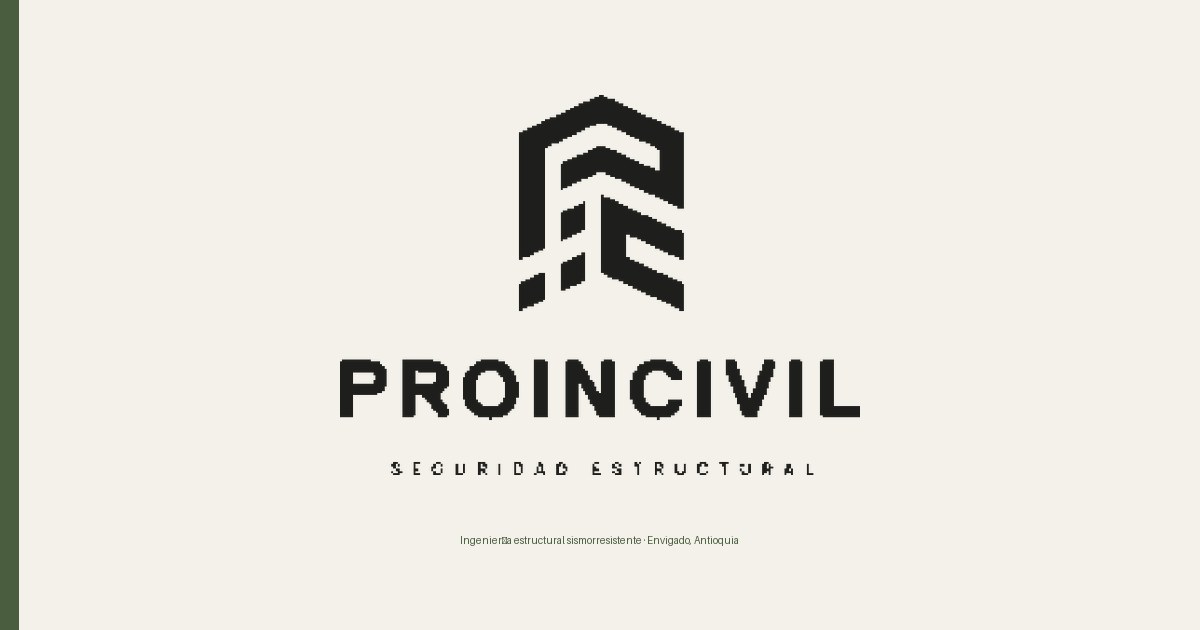
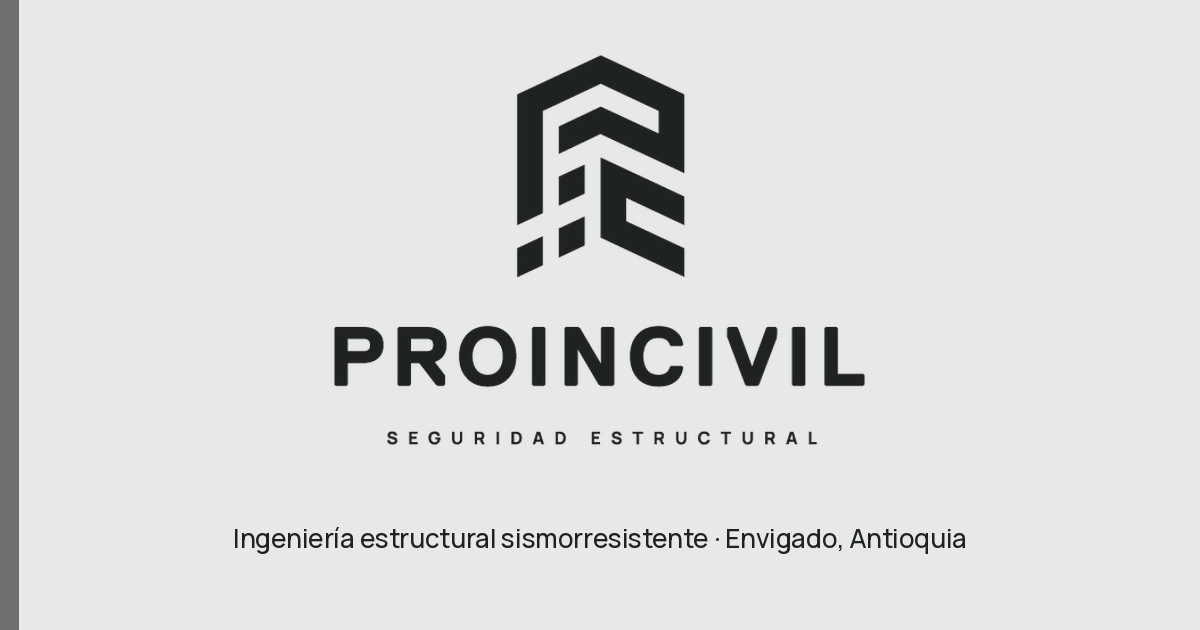
Aplica la nueva identidad de marca (Estudio dositres)
- Paleta de marca en los tokens (negro verdoso, blanco grisáceo, verde grisáceo, gris oscuro verdoso); solo cambian valores, no reglas.
- Manrope (principal) y Garet Book (secundaria) autoalojadas en fonts/, con respaldos de métricas ajustadas; se retira Google Fonts.
- Logo nuevo (variante vertical), favicons, imagen OG, theme-color y manifest.
- Botones de conversión en verde WhatsApp #25D366 (texto #1E2221, 8,5:1).
- Estado del proyecto actualizado.

Claude-Session: https://claude.ai/code/session_01Ci6jc6ucvabxgtges6nank

diff --git a/_includes/critical-css/base.css b/_includes/critical-css/base.css
@@ -2,36 +2,38 @@
    Dirección: _plans/direccion-diseno-plano-vivo-2026-10-21.md */
 @layer reset, primitivas, componentes, utilidades;
 
-/* Respaldo con métricas ajustadas: evita el salto de diseño (CLS) cuando llega la fuente web. */
-@font-face { font-family: "Inter respaldo"; src: local("Arial"); size-adjust: 107.4%; ascent-override: 90.2%; descent-override: 22.48%; line-gap-override: 0%; }
-@font-face { font-family: "JetBrains Mono respaldo"; src: local("Courier New"); size-adjust: 100%; ascent-override: 102%; descent-override: 30%; line-gap-override: 0%; }
+/* Identidad 2026-10: fuentes de marca autoalojadas (Manrope principal, Garet Book secundaria) y respaldos con métricas ajustadas para evitar el salto de diseño (CLS). */
+@font-face { font-family: "Manrope"; src: url("{{ '/fonts/manrope-var.woff2' | relative_url }}") format("woff2"); font-weight: 200 800; font-style: normal; font-display: swap; }
+@font-face { font-family: "Garet"; src: url("{{ '/fonts/garet-book.woff2' | relative_url }}") format("woff2"); font-weight: 400 800; font-style: normal; font-display: swap; }
+@font-face { font-family: "Manrope respaldo"; src: local("Arial"); size-adjust: 105.3%; ascent-override: 101.22%; descent-override: 28.49%; line-gap-override: 0%; }
+@font-face { font-family: "Garet respaldo"; src: local("Arial"); size-adjust: 119.6%; ascent-override: 89.49%; descent-override: 31.78%; line-gap-override: 0%; }
 
 @layer reset {
   :root {
-    --azul: #14213d;
-    --azul-2: #1b2a4a;
-    --marfil: #f6f3ec;
-    --papel: #fff;
-    --tinta: #14213d;
-    --tinta-suave: #47506a;
-    --trazo: #9db4d9;
-    --ambar: #d98e2a;
-    --linea: rgb(20 33 61 / 0.16);
-    --linea-fuerte: rgb(20 33 61 / 0.42);
-    --linea-clara: rgb(246 243 236 / 0.18);
+    --azul: #1E2221;      /* negro verdoso (marca) */
+    --azul-2: #2A2F2D;    /* negro verdoso aclarado, para superficies oscuras */
+    --marfil: #E8E8E8;    /* blanco grisáceo (marca) */
+    --papel: #F4F5F4;     /* tinte claro del blanco grisáceo, para tarjetas */
+    --tinta: #1E2221;
+    --tinta-suave: #565955;   /* 5,8:1 sobre blanco grisáceo */
+    --trazo: #929C93;     /* verde grisáceo (marca) */
+    --ambar: #25D366;     /* acento de conversión: verde WhatsApp (fuera de la paleta de marca, elegido por el usuario 2026-10-21); texto #1E2221 encima (8,5:1) */
+    --linea: rgb(30 34 33 / 0.16);
+    --linea-fuerte: rgb(30 34 33 / 0.42);
+    --linea-clara: rgb(232 232 232 / 0.18);
     --cuadricula-oscura:
-      linear-gradient(rgb(157 180 217 / 0.07) 1px, transparent 1px),
-      linear-gradient(90deg, rgb(157 180 217 / 0.07) 1px, transparent 1px),
-      linear-gradient(rgb(157 180 217 / 0.14) 1px, transparent 1px),
-      linear-gradient(90deg, rgb(157 180 217 / 0.14) 1px, transparent 1px);
+      linear-gradient(rgb(146 156 147 / 0.07) 1px, transparent 1px),
+      linear-gradient(90deg, rgb(146 156 147 / 0.07) 1px, transparent 1px),
+      linear-gradient(rgb(146 156 147 / 0.14) 1px, transparent 1px),
+      linear-gradient(90deg, rgb(146 156 147 / 0.14) 1px, transparent 1px);
     --cuadricula-clara:
-      linear-gradient(rgb(20 33 61 / 0.035) 1px, transparent 1px),
-      linear-gradient(90deg, rgb(20 33 61 / 0.035) 1px, transparent 1px),
-      linear-gradient(rgb(20 33 61 / 0.07) 1px, transparent 1px),
-      linear-gradient(90deg, rgb(20 33 61 / 0.07) 1px, transparent 1px);
+      linear-gradient(rgb(30 34 33 / 0.035) 1px, transparent 1px),
+      linear-gradient(90deg, rgb(30 34 33 / 0.035) 1px, transparent 1px),
+      linear-gradient(rgb(30 34 33 / 0.07) 1px, transparent 1px),
+      linear-gradient(90deg, rgb(30 34 33 / 0.07) 1px, transparent 1px);
     --cuadricula-medida: 8px 8px, 8px 8px, 40px 40px, 40px 40px;
-    --fuente: "Inter", "Inter respaldo", system-ui, -apple-system, "Segoe UI", sans-serif;
-    --fuente-mono: "JetBrains Mono", "JetBrains Mono respaldo", ui-monospace, "SFMono-Regular", Consolas, monospace;
+    --fuente: "Manrope", "Manrope respaldo", system-ui, -apple-system, "Segoe UI", sans-serif;
+    --fuente-mono: "Garet", "Garet respaldo", "Manrope", system-ui, -apple-system, "Segoe UI", sans-serif;
     --margen: clamp(1rem, 4vw, 2rem);
     --barra-alto: 4rem;
     --menu-alto: 2.875rem;

diff --git a/_includes/css/escenas.css b/_includes/css/escenas.css
@@ -19,15 +19,15 @@
   }
   .panel__foto { position: absolute; inset: 0; }
   .panel__foto img { inline-size: 100%; block-size: 100%; object-fit: cover; }
-  .panel__foto::after { content: ""; position: absolute; inset: 0; background: linear-gradient(180deg, rgb(20 33 61 / 0.25) 0%, rgb(20 33 61 / 0.55) 45%, rgb(20 33 61 / 0.94) 100%); }
+  .panel__foto::after { content: ""; position: absolute; inset: 0; background: linear-gradient(180deg, rgb(30 34 33 / 0.25) 0%, rgb(30 34 33 / 0.55) 45%, rgb(30 34 33 / 0.94) 100%); }
   .panel__cuerpo { position: relative; padding-block: clamp(3rem, 8vw, 6rem); max-inline-size: 75rem; }
   .panel__numero { font-family: var(--fuente-mono); font-size: clamp(1rem, 1.5vw, 1.25rem); color: var(--trazo); }
   .panel__titulo { max-inline-size: 16ch; font-size: clamp(2.25rem, 5.5vw, 5rem); line-height: 1; letter-spacing: -0.035em; }
-  .panel__texto { max-inline-size: 38rem; font-size: clamp(1.0625rem, 0.6vw + 1rem, 1.25rem); color: rgb(246 243 236 / 0.85); }
+  .panel__texto { max-inline-size: 38rem; font-size: clamp(1.0625rem, 0.6vw + 1rem, 1.25rem); color: rgb(232 232 232 / 0.85); }
   .panel__enlaces { display: flex; flex-wrap: wrap; gap: 0.75rem 2rem; padding: 0; list-style: none; }
   @media (min-width: 60em) {
     .panel { align-items: center; }
-    .panel__foto::after { background: linear-gradient(90deg, rgb(20 33 61 / 0.94) 0%, rgb(20 33 61 / 0.78) 38%, rgb(20 33 61 / 0.25) 75%, rgb(20 33 61 / 0.1) 100%); }
+    .panel__foto::after { background: linear-gradient(90deg, rgb(30 34 33 / 0.94) 0%, rgb(30 34 33 / 0.78) 38%, rgb(30 34 33 / 0.25) 75%, rgb(30 34 33 / 0.1) 100%); }
     .panel__cuerpo { padding-block: 4rem; }
     .panel__enlaces { flex-direction: column; align-items: flex-start; gap: 0.625rem; }
   }
@@ -54,15 +54,15 @@
   .zoom__escena { position: relative; display: grid; align-items: center; min-block-size: 100svh; overflow: hidden; isolation: isolate; }
   .zoom__foto { position: absolute; inset: 0; z-index: -1; }
   .zoom__foto img { inline-size: 100%; block-size: 100%; object-fit: cover; }
-  .zoom__foto::after { content: ""; position: absolute; inset: 0; background: radial-gradient(ellipse at 30% 60%, rgb(20 33 61 / 0.55), rgb(20 33 61 / 0.92)); }
+  .zoom__foto::after { content: ""; position: absolute; inset: 0; background: radial-gradient(ellipse at 30% 60%, rgb(30 34 33 / 0.55), rgb(30 34 33 / 0.92)); }
   .zoom__palabra {
     position: absolute; inset: 0; display: grid; place-items: center; z-index: 1; pointer-events: none;
     font-size: clamp(2.75rem, 17vw, 16rem); font-weight: 800; letter-spacing: -0.05em; line-height: 1;
-    color: transparent; -webkit-text-stroke: 1px rgb(157 180 217 / 0.35);
+    color: transparent; -webkit-text-stroke: 1px rgb(146 156 147 / 0.35);
   }
   .zoom__cta { position: relative; z-index: 2; padding-block: 6rem; }
   .zoom__titulo { max-inline-size: 20ch; font-size: clamp(2.25rem, 4.5vw, 4.25rem); line-height: 1.02; letter-spacing: -0.035em; }
-  .zoom__texto { max-inline-size: 34rem; font-size: 1.125rem; color: rgb(246 243 236 / 0.85); }
+  .zoom__texto { max-inline-size: 34rem; font-size: 1.125rem; color: rgb(232 232 232 / 0.85); }
   .zoom .boton { min-block-size: 4.25rem; padding: 1.25rem 2.25rem; font-size: 1.25rem; }
 
   .palabra { display: inline-block; overflow: hidden; padding-block-end: 0.12em; margin-block-end: -0.12em; vertical-align: bottom; }

diff --git a/_includes/head.html b/_includes/head.html
@@ -15,7 +15,7 @@
 <meta name="geo.region" content="CO-ANT">
 <meta name="geo.placename" content="{{ site.empresa.ciudad }}, {{ site.empresa.departamento }}">
 <meta name="geo.position" content="{{ site.empresa.geo_lat }};{{ site.empresa.geo_lng }}">
-<meta name="theme-color" content="#14160F">
+<meta name="theme-color" content="#1E2221">
 <link rel="canonical" href="{{ page.canonical | default: page.url | absolute_url }}">
 {%- if page.layout == "post" %}
 <meta property="article:published_time" content="{{ page.date | date_to_xmlschema }}">
@@ -41,11 +41,8 @@
 <link rel="manifest" href="{{ '/manifest.json' | relative_url }}">
 <link rel="alternate" type="application/rss+xml" title="Blog PROINCIVIL" href="{{ '/feed.xml' | absolute_url }}">
 <link rel="sitemap" type="application/xml" href="{{ '/sitemap.xml' | absolute_url }}">
-{%- comment %} Fuentes Plano vivo: Inter (titulares y cuerpo) + JetBrains Mono (ejes, cotas, rótulos y cifras). {% endcomment %}
-<link rel="preconnect" href="https://fonts.googleapis.com">
-<link rel="preconnect" href="https://fonts.gstatic.com" crossorigin>
-<link rel="stylesheet" href="https://fonts.googleapis.com/css2?family=Inter:wght@400;500;600;700;800&family=JetBrains+Mono:wght@500;600&display=swap" media="print" onload="this.media='all'">
-<noscript><link rel="stylesheet" href="https://fonts.googleapis.com/css2?family=Inter:wght@400;500;600;700;800&family=JetBrains+Mono:wght@500;600&display=swap"></noscript>
+{%- comment %} Fuentes de marca autoalojadas (@font-face en critical-css/base.css): Manrope (principal: titulares y cuerpo) + Garet Book (secundaria: rótulos, cotas y cifras). {% endcomment %}
+<link rel="preload" href="{{ '/fonts/manrope-var.woff2' | relative_url }}" as="font" type="font/woff2" crossorigin>
 {% include critical-css/critical.html %}
 {%- comment %} El hero no se precarga aquí: picture.html ya lo emite con fetchpriority="high". {% endcomment -%}
 {% include schema-organization.html %}

diff --git a/_includes/css/primitivas.css b/_includes/css/primitivas.css
@@ -15,7 +15,7 @@
   .encabezado__titulo { font-size: clamp(1.75rem, 2vw + 1rem, 2.75rem); }
   .flujo > .encabezado + * { margin-block-start: clamp(1.75rem, 3vw, 2.75rem); }
   .encabezado__texto { font-size: 1.0625rem; color: var(--tinta-suave); }
-  .seccion--oscura .encabezado__texto { color: rgb(246 243 236 / 0.78); }
+  .seccion--oscura .encabezado__texto { color: rgb(232 232 232 / 0.78); }
 
   .rejilla {
     --columna: 15rem;
@@ -49,7 +49,7 @@
   .pieza__flecha::after { content: " →"; }
   .pieza--enlace .pieza__titulo a::after { content: ""; position: absolute; inset: 0; z-index: 1; }
   .pieza--oscura { background: var(--azul-2); border-color: var(--linea-clara); color: var(--marfil); }
-  .pieza--oscura .pieza__cuerpo > p:not(.rotulo) { color: rgb(246 243 236 / 0.78); }
+  .pieza--oscura .pieza__cuerpo > p:not(.rotulo) { color: rgb(232 232 232 / 0.78); }
 
   .lista { --flujo: 0.625rem; display: grid; gap: 0.625rem; padding: 0; list-style: none; }
   .lista li { position: relative; padding-inline-start: 1.75rem; }
@@ -73,7 +73,7 @@
   .cifras--claras .cifra__valor { font-size: clamp(1.75rem, 1.5vw + 1rem, 2.25rem); }
   .cifras--claras .cifra { color: var(--marfil); }
   .cifras--claras .cifra::before { color: var(--trazo); }
-  .cifras--claras .cifra__etiqueta { color: rgb(246 243 236 / 0.75); }
+  .cifras--claras .cifra__etiqueta { color: rgb(232 232 232 / 0.75); }
 
   .pasos { counter-reset: paso; display: grid; gap: 0; padding: 0; list-style: none; grid-template-columns: repeat(auto-fit, minmax(min(100%, 15rem), 1fr)); }
   .pasos li { counter-increment: paso; position: relative; display: grid; gap: 0.5rem; align-content: start; padding: 2.75rem 1.5rem 1.5rem 0; border-block-start: 1.5px solid var(--azul); }

diff --git a/_includes/css/motion.css b/_includes/css/motion.css
@@ -78,7 +78,7 @@
       .cierre { position: relative; overflow: hidden; isolation: isolate; }
       .cierre::before {
         content: ""; position: absolute; inset: -50%; z-index: -1; pointer-events: none;
-        background: conic-gradient(from 0deg at 50% 50%, transparent 0 62%, rgb(217 142 42 / 0.26) 76%, rgb(157 180 217 / 0.18) 84%, transparent 92%);
+        background: conic-gradient(from 0deg at 50% 50%, transparent 0 62%, rgb(37 211 102 / 0.26) 76%, rgb(146 156 147 / 0.18) 84%, transparent 92%);
         animation: luz-giro linear both; animation-timeline: view(); animation-range: entry 0% exit 100%;
       }
       .cierre__titulo { animation: cierre-titulo linear both; animation-timeline: view(); animation-range: entry 0% cover 40%; }
@@ -215,7 +215,7 @@
   .persona__foto, .inclinable { transform: perspective(900px) rotateX(var(--rx, 0deg)) rotateY(var(--ry, 0deg)); transition: transform 300ms var(--curva); }
   .persona__foto::before {
     content: ""; position: absolute; inset-inline: 0; inset-block-start: 0; z-index: 1; block-size: 30%; pointer-events: none; opacity: 0;
-    background: linear-gradient(180deg, transparent, rgb(157 180 217 / 0.45) 85%, var(--trazo) 100%);
+    background: linear-gradient(180deg, transparent, rgb(146 156 147 / 0.45) 85%, var(--trazo) 100%);
   }
   .persona__nombre { background: linear-gradient(var(--azul), var(--azul)) 0 100% / 0% 2px no-repeat; transition: background-size 300ms var(--curva); }
   .persona:hover .persona__nombre { background-size: 100% 2px; }

diff --git a/_includes/css/componentes.css b/_includes/css/componentes.css
@@ -35,11 +35,11 @@
   .cierre { position: relative; isolation: isolate; display: grid; align-items: center; min-block-size: min(100svh, 56rem); overflow: hidden; }
   .cierre__foto { position: absolute; inset: 0; z-index: -2; }
   .cierre__foto img { inline-size: 100%; block-size: 100%; object-fit: cover; }
-  .cierre__foto::after { content: ""; position: absolute; inset: 0; background: linear-gradient(100deg, rgb(20 33 61 / 0.95) 0%, rgb(20 33 61 / 0.82) 45%, rgb(20 33 61 / 0.45) 100%); }
+  .cierre__foto::after { content: ""; position: absolute; inset: 0; background: linear-gradient(100deg, rgb(30 34 33 / 0.95) 0%, rgb(30 34 33 / 0.82) 45%, rgb(30 34 33 / 0.45) 100%); }
   .cierre__rejilla { display: grid; gap: 3rem; align-items: center; }
   .cierre .boton { min-block-size: 4rem; padding: 1.125rem 2rem; font-size: 1.1875rem; }
   .cierre__titulo { font-size: clamp(2rem, 2.6vw + 1rem, 3.25rem); line-height: 1.05; letter-spacing: -0.03em; }
-  .cierre .flujo > p { max-inline-size: 38rem; color: rgb(246 243 236 / 0.82); }
+  .cierre .flujo > p { max-inline-size: 38rem; color: rgb(232 232 232 / 0.82); }
   @media (min-width: 60em) { .cierre__rejilla { grid-template-columns: minmax(0, 1.3fr) minmax(0, 1fr); gap: 5rem; } }
 
   .formulario form { --flujo: 1.25rem; }

diff --git a/_includes/critical-css/hero.css b/_includes/critical-css/hero.css
@@ -11,7 +11,7 @@
   .plano { position: absolute; inset: 0; z-index: -1; pointer-events: none; }
   .portada::after {
     content: ""; position: absolute; inset: 0; z-index: -1; pointer-events: none; opacity: 0;
-    background: radial-gradient(32rem circle at var(--mx, 50%) var(--my, 30%), rgb(157 180 217 / 0.22), transparent 65%);
+    background: radial-gradient(32rem circle at var(--mx, 50%) var(--my, 30%), rgb(146 156 147 / 0.22), transparent 65%);
     transition: opacity 400ms var(--curva);
   }
   .portada--puntero::after { opacity: 1; }
@@ -41,7 +41,7 @@
   .portada__copy { display: grid; gap: 1.25rem; justify-items: start; }
   .portada__titulo { max-inline-size: 18ch; font-size: clamp(2.375rem, 4.6vw + 1rem, 4.75rem); line-height: 1.02; letter-spacing: -0.035em; }
   .portada__titulo em { font-style: normal; color: var(--trazo); }
-  .portada__texto { max-inline-size: 40rem; font-size: clamp(1.0625rem, 0.5vw + 1rem, 1.25rem); color: rgb(246 243 236 / 0.82); }
+  .portada__texto { max-inline-size: 40rem; font-size: clamp(1.0625rem, 0.5vw + 1rem, 1.25rem); color: rgb(232 232 232 / 0.82); }
   .portada__garantia {
     display: flex; align-items: center; gap: 0.625rem;
     font-family: var(--fuente-mono); font-size: 0.8125rem; color: var(--trazo);

diff --git a/_includes/css/footer.css b/_includes/css/footer.css
@@ -3,7 +3,7 @@
   .pie {
     padding-block: clamp(3rem, 6vw, 5rem) 2rem;
     background-color: var(--azul); background-image: var(--cuadricula-oscura); background-size: var(--cuadricula-medida);
-    color: rgb(246 243 236 / 0.85); font-size: 0.9375rem;
+    color: rgb(232 232 232 / 0.85); font-size: 0.9375rem;
   }
   .pie a { color: var(--marfil); text-decoration-color: var(--linea-clara); }
   .pie a:hover { text-decoration-color: var(--trazo); }
@@ -21,7 +21,7 @@
   .pie__legal {
     display: flex; flex-wrap: wrap; justify-content: space-between; gap: 0.5rem 2rem;
     margin-block-start: 3rem; padding-block-start: 1.5rem; border-block-start: 1px solid var(--linea-clara);
-    font-size: 0.8125rem; color: rgb(246 243 236 / 0.65);
+    font-size: 0.8125rem; color: rgb(232 232 232 / 0.65);
   }
   @media (min-width: 64em) {
     .pie__rejilla { grid-template-columns: minmax(0, 1.4fr) repeat(4, minmax(0, 1fr)); }

diff --git a/_includes/footer.html b/_includes/footer.html
@@ -3,7 +3,7 @@
     <div class="pie__rejilla">
       <div class="pie__marca flujo">
         <a href="{{ '/' | relative_url }}" class="pie__logo">
-          <img src="{{ '/img/logo-proincivil-blanco.png' | relative_url }}" alt="PROINCIVIL · Seguridad estructural · Inicio" width="558" height="408" loading="lazy" decoding="async">
+          <img src="{{ '/img/logo-proincivil-blanco.png' | relative_url }}" alt="PROINCIVIL · Seguridad estructural · Inicio" width="475" height="351" loading="lazy" decoding="async">
         </a>
         <p>Firma de ingeniería estructural y consultoría técnica en {{ site.empresa.ciudad }}, {{ site.empresa.departamento }}, con atención en {{ site.contact.cobertura | join: " y " }}. Diseñamos, evaluamos y supervisamos; <strong>no ejecutamos obra</strong>.</p>
         <p class="pie__dato">{{ site.empresa.razon_social }} · NIT {{ site.empresa.nit }}</p>

diff --git a/_includes/nav.html b/_includes/nav.html
@@ -8,7 +8,7 @@
 <header class="barra">
   <div class="marco barra__marco">
     <a href="{{ '/' | relative_url }}" class="barra__logo">
-      <img src="{{ '/img/logo-proincivil.png' | relative_url }}" alt="PROINCIVIL · Seguridad estructural · Inicio" width="558" height="408" loading="eager" decoding="async">
+      <img src="{{ '/img/logo-proincivil.png' | relative_url }}" alt="PROINCIVIL · Seguridad estructural · Inicio" width="475" height="351" loading="eager" decoding="async">
     </a>
     {% include button.html texto="Conversemos" data_location="barra" variante="contorno" %}
   </div>

diff --git a/_includes/schema-organization.html b/_includes/schema-organization.html
@@ -10,7 +10,7 @@
   "slogan": "{{ site.empresa.tagline }}",
   "description": {{ site.site_meta.description | jsonify }},
   "url": "{{ site.url }}/",
-  "logo": { "@type": "ImageObject", "url": "{{ '/img/logo-proincivil.png' | absolute_url }}", "width": "558", "height": "408" },
+  "logo": { "@type": "ImageObject", "url": "{{ '/img/logo-proincivil.png' | absolute_url }}", "width": "475", "height": "351" },
   "image": "{{ '/img/og-proincivil.jpg' | absolute_url }}",
   "telephone": "+{{ site.contact.whatsapp }}",
   "email": "{{ site.contact.email }}",

diff --git a/.claude/ESTADO-DEL-PROYECTO.md b/.claude/ESTADO-DEL-PROYECTO.md
@@ -16,6 +16,7 @@
 | Dominio propio + indexación | ⏳ Bloqueada | Falta que PROINCIVIL compre `proincivil.com`; hasta entonces `vista_previa: true` |
 | Entrega de pendientes al cliente | ✅ 2026-09-22 | `_plans/PENDIENTES-Y-PREGUNTAS-PROINCIVIL.md` y `.pdf` (5 páginas, 11 preguntas) |
 | Fase SEO mensual | ⏳ Arranca al entregar el sitio | Plan de 12 meses en la sección 13 de la investigación |
+| Nueva identidad de marca (Estudio dositres) sobre «Plano vivo» | 🟡 Aplicada local 2026-10-21, compila y valida, sin commitear | Paleta, Manrope/Garet y logos en tokens y archivos, sin tocar reglas CSS/JS. Falta aprobación visual. Ver bitácora |
 | Rediseño total «Plano vivo» + contenido según el formulario del 14-10 | 🟡 Home y piloto implementados localmente 2026-10-21, sin commitear | Borrado todo el CSS/JS/markup visual anterior (Pliego y Plano sellado descartados). Dirección: `_plans/direccion-diseno-plano-vivo-2026-10-21.md`; fuente de contenido: `_plans/brief-contenido-2026-10-21.md`. Falta: aprobación visual del cliente, diseño fino de hub/article/project/post y tuteo de la prosa de las colecciones retenidas |
 
 ## Pendientes del cliente (bloquean publicación)
@@ -32,7 +33,7 @@ Consolidado en `_plans/pendientes/*.md` (cada redactor deja los suyos). Los crí
 8. Umbrales vigentes de Ley 1796 / Decreto 945 confirmados por el Ing. Tamayo.
 9. Endpoint de formulario (Formspree/Web3Forms) → `form_endpoint` en `_config.yml`; GA4 → `ga4_id`;
    verificación de Search Console → `google_site_verification`; Google Business Profile → `social.google_business`.
-10. Logo vectorial (el actual es un recorte del PDF del portafolio, `img/logo-proincivil*.png`).
+10. Logo vectorial: el estudio entregó variantes PNG del logo nuevo (2026-10-21) y están en `img/logo-proincivil*.png`; sigue pendiente el vectorial (SVG/AI).
 
 ## Problemas abiertos
 
@@ -62,6 +63,14 @@ Consolidado en `_plans/pendientes/*.md` (cada redactor deja los suyos). Los crí
 - Página de empresa en LinkedIn y perfil de Google Business (NAP idéntico al de `_config.yml`).
 
 ## Bitácora
+
+### 2026-10-21 — Nueva identidad de marca (carpeta «Identidad New Branding», Estudio dositres) sobre «Plano vivo»
+**Contexto:** el usuario pidió aplicar la identidad (colores, fuentes, logos) sin cambiar reglas de CSS ni JS. Antes se trajo `origin/main` (rediseño «Plano vivo», `d5b8df9`); un primer parche sobre el sistema anterior se descartó y se rehízo sobre los tokens nuevos.
+- **Paleta de marca:** blanco grisáceo `#E8E8E8`, verde grisáceo `#929C93`, gris oscuro verdoso `#6E706D`, negro verdoso `#1E2221`. En `_includes/critical-css/base.css` cambian solo los **valores** de los tokens (los nombres `--azul`, `--marfil`, `--ambar`… se conservan): `--azul`/`--tinta` → `#1E2221`, `--azul-2` → `#2A2F2D`, `--marfil` → `#E8E8E8`, `--papel` → `#F4F5F4`, `--tinta-suave` → `#565955` (5,8:1), `--trazo` → `#929C93`. **Botones de conversión:** `--ambar` → verde WhatsApp `#25D366` con texto `#1E2221` (8,5:1); es el único color fuera de la paleta de marca (la identidad es monocromática verde/gris). El usuario lo eligió entre rojo coral, naranja de seguridad, rojo vivo, verde grisáceo y verde WhatsApp. Si el cliente lo rechaza, basta cambiar ese valor (y el `rgb(37 211 102 / …)` del resplandor en `motion.css`). Los `rgb()` literales de hero, componentes, escenas, footer, motion y primitivas se convirtieron a los RGB de marca. El gris `#6E706D` solo da 4,1:1 con texto claro, por eso no se usó como fondo de botón.
+- **Fuentes:** Manrope (principal) para titulares y cuerpo; Garet Book (secundaria) en `--fuente-mono` (rótulos, cotas y cifras). woff2 con subconjunto latino en `fonts/`, `@font-face` y respaldos con métricas ajustadas (reemplazan «Inter respaldo» y «JetBrains Mono respaldo») al inicio de `base.css`, `preload` de Manrope en `head.html`; sin Google Fonts. Garet solo existe en Book: el `@font-face` declara 400–800 para que el navegador no simule negrita.
+- **Logos e íconos:** `img/logo-proincivil.png` y `-blanco.png` = variante vertical con «Seguridad estructural» (475×351; ancho/alto actualizados en `nav.html`, `footer.html` y `schema-organization.html`). Favicons, apple-touch y Android regenerados con el símbolo sobre `#1E2221`; `og-proincivil.jpg` rehecho; `theme-color`, `manifest.json` y `humans.txt` actualizados.
+- **Jekyll local:** instalado en la sesión (Jekyll 3.10.0 como GitHub Pages + sitemap, feed, redirect-from, kramdown-parser-gfm) sin permisos de administrador; se compila con `JEKYLL_NO_BUNDLER_REQUIRE=1` porque el `Gemfile.lock` es de Windows. Build 38 páginas, `lint-frontmatter.py` 0 errores, `validar-site.py` 0 problemas. Verificado con capturas a 1440 y 390 px: fuentes cargadas, sin desborde horizontal.
+- **A revisar:** el brandbook usa «Transformamos ideas en obras» y «Diseño y Construcción», que chocan con la regla contractual (no ejecutamos obra); no se llevó nada de eso al sitio. Manrope no tiene cursiva real. `img/equipo-placeholder.svg` y `_scripts/md-a-pdf.py` conservan colores viejos. Sin commit.
 
 ### 2026-10-21 — Lavado de cara total «Plano vivo» y contenido según el formulario del cliente
 **Contexto:** el usuario pidió borrar todo el diseño (CSS, JS y markup visual), conservar la investigación y estructura SEO, el equipo y las fotos reales, buscar dirección en 21st.dev y reordenar el contenido según `_plans/datos-cliente.csv` (formulario del 14-10), la investigación y `_plans/research/`.
